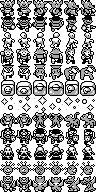
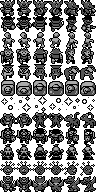
Fixed monster NPC sprites and palettes.

Changed region(s): [[0.0, 0.0, 1.0, 1.0], [0.6562, 0.0, 1.0, 0.5625], [0.5312, 0.5312, 0.5625, 0.5625]]

diff --git a/src/map.c b/src/map.c
@@ -538,8 +538,52 @@ static MonsterTiles monster_tiles_by_type(MonsterType type) {
  * @return Palette colors for the monster.
  * @param type Type of monster for which to find the palette colors.
  */
-static palette_color_t *monster_palette_by_type(MonsterType type) {
-  return kobold_palettes;
+static palette_color_t *monster_palette_by_type(
+  MonsterType type,
+  PowerTier tier
+) {
+  palette_color_t *palette;
+
+  switch (type) {
+  case MONSTER_GOBLIN:
+    palette = goblin_palettes;
+    break;
+  case MONSTER_ZOMBIE:
+    palette = zombie_palettes;
+    break;
+  case MONSTER_BUGBEAR:
+    palette = bugbear_palettes;
+    break;
+  case MONSTER_OWLBEAR:
+    palette = owlbear_palettes;
+    break;
+  case MONSTER_GELATINOUS_CUBE:
+    palette = gelatinous_cube_palettes;
+    break;
+  case MONSTER_DISPLACER_BEAST:
+    palette = displacer_beast_palettes;
+    break;
+  case MONSTER_WILL_O_WISP:
+    palette = will_o_wisp_palettes;
+    break;
+  case MONSTER_DEATHKNIGHT:
+    palette = deathknight_palettes;
+    break;
+  case MONSTER_MINDFLAYER:
+    palette = mindflayer_palettes;
+    break;
+  case MONSTER_BEHOLDER:
+    palette = beholder_palettes;
+    break;
+  case MONSTER_DRAGON:
+    palette = dragon_palettes;
+    break;
+  default:
+    palette = kobold_palettes;
+    break;
+  }
+
+  return palette + tier * 4;
 }
 
 /**
@@ -556,11 +600,12 @@ static void init_npcs(void) {
     npc++, pos++
   ) {
     MonsterTiles monster_tiles = monster_tiles_by_type(npc->monster_type);
-    palette_color_t *palette = monster_palette_by_type(npc->monster_type);
+    palette_color_t *palette = monster_palette_by_type(
+      npc->monster_type, npc->power_tier);
 
     const uint8_t palette_num = pos + 6;
     core.load_monster_tiles(monster_tiles, pos);
-    core.load_sprite_palette(kobold_palettes, palette_num, 1);
+    core.load_sprite_palette(palette, palette_num, 1);
 
     const uint8_t sprite_root = NPC_SPRITE_1 + 4 * pos;
     const uint8_t tile_root = NPC_1_TILE_ROOT + 0x20 * pos;

diff --git a/src/floor3.c b/src/floor3.c
@@ -307,11 +307,12 @@ static const NPC npcs[] = {
     MAP_A,            // Map for the npc
     0, 0              // (x, y) tile for the npc
     MONSTER_KOBOLD,   // Monster graphic to use for the NPC
+    B_TIER,           // Tier for the monster (determines palette)
     action_callback,  // Action callback to execute when the player interacts
   }
   */
-  { NPC_1, MAP_A, 15, 20, MONSTER_KOBOLD, on_npc_action },
-  { NPC_2, MAP_A, 23, 22, MONSTER_KOBOLD, on_npc_action },
+  { NPC_1, MAP_A, 15, 20, MONSTER_KOBOLD, A_TIER, on_npc_action },
+  { NPC_2, MAP_A, 23, 22, MONSTER_KOBOLD, S_TIER, on_npc_action },
 
   { END }
 };
@@ -351,7 +352,7 @@ static bool on_init(void) {
 static bool on_special(void) {
   if (player_at(20, 15) &&
       (is_lever_on(LEVER_8) ||
-       is_lever_on(LEVER_7) || 
+       is_lever_on(LEVER_7) ||
        is_lever_on(LEVER_6) ||
        !is_lever_on(LEVER_5))){
     teleport(MAP_A, 25, 15, LEFT);

diff --git a/src/floor5.c b/src/floor5.c
@@ -227,11 +227,12 @@ static const NPC npcs[] = {
     MAP_A,            // Map for the npc
     0, 0              // (x, y) tile for the npc
     MONSTER_KOBOLD,   // Monster graphic to use for the NPC
+    B_TIER,           // Tier for the monster (determines palette)
     action_callback,  // Action callback to execute when the player interacts
   }
   */
-  { NPC_1, MAP_B, 3, 5, MONSTER_KOBOLD, on_npc_action }, // Boss
-  { NPC_2, MAP_B, 12, 2, MONSTER_KOBOLD, on_npc_action }, // Elite
+  { NPC_1, MAP_B, 3, 5, MONSTER_KOBOLD, S_TIER, on_npc_action }, // Boss
+  { NPC_2, MAP_B, 12, 2, MONSTER_KOBOLD, A_TIER, on_npc_action }, // Elite
 
   { END }
 };

diff --git a/src/floor_test.c b/src/floor_test.c
@@ -251,8 +251,9 @@ static const NPC npcs[] = {
     NPC_1,            // Use NPC_* constants for ids.
     MAP_A,            // Map for the npc
     0, 0              // (x, y) tile for the npc
-    MONSTER_KOBOLD,   // Monster type
-    on_monster_action // Action callback
+    MONSTER_KOBOLD,   // Monster graphic to use for the NPC
+    B_TIER,           // Tier for the monster (determines palette)
+    action_callback,  // Action callback to execute when the player interacts
   }
   */
   { END }

diff --git a/src/floor1.c b/src/floor1.c
@@ -246,10 +246,11 @@ static const NPC npcs[] = {
     MAP_A,            // Map for the npc
     0, 0              // (x, y) tile for the npc
     MONSTER_KOBOLD,   // Monster graphic to use for the NPC
+    B_TIER,           // Tier for the monster (determines palette)
     action_callback,  // Action callback to execute when the player interacts
   }
   */
-  { NPC_1, MAP_A, 12, 5, MONSTER_GOBLIN, on_npc_action },
+  { NPC_1, MAP_A, 12, 5, MONSTER_GOBLIN, S_TIER, on_npc_action },
 
   { END }
 };

diff --git a/src/floor_test2.c b/src/floor_test2.c
@@ -163,10 +163,11 @@ static const NPC npcs[] = {
     MAP_A,            // Map for the npc
     0, 0              // (x, y) tile for the npc
     MONSTER_KOBOLD,   // Monster graphic to use for the NPC
+    B_TIER,           // Tier for the monster (determines palette)
     action_callback,  // Action callback to execute when the player interacts
   }
   */
-  { NPC_1, MAP_C, 5, 5, MONSTER_KOBOLD, on_npc_action },
+  { NPC_1, MAP_C, 5, 5, MONSTER_KOBOLD, S_TIER, on_npc_action },
   { END }
 };
 

diff --git a/src/map.h b/src/map.h
@@ -827,6 +827,10 @@ typedef struct NPC {
    */
   MonsterType monster_type;
   /**
+   * Power tier for the monster (used to select palette).
+   */
+  PowerTier power_tier;
+  /**
    * Scripting callback to execute when the player interacts with the NPC.
    * @param npc The NPC that initiated the callback.
    * @return `true` if the default action should be skipped.

diff --git a/floor_template.c b/floor_template.c
@@ -162,6 +162,7 @@ static const NPC npcs[] = {
     MAP_A,            // Map for the npc
     0, 0              // (x, y) tile for the npc
     MONSTER_KOBOLD,   // Monster graphic to use for the NPC
+    B_TIER,           // Tier for the monster (determines palette)
     action_callback,  // Action callback to execute when the player interacts
   }
   */

diff --git a/src/floor4.c b/src/floor4.c
@@ -162,6 +162,7 @@ static const NPC npcs[] = {
     MAP_A,            // Map for the npc
     0, 0              // (x, y) tile for the npc
     MONSTER_KOBOLD,   // Monster graphic to use for the NPC
+    B_TIER,           // Tier for the monster (determines palette)
     action_callback,  // Action callback to execute when the player interacts
   }
   */

diff --git a/src/floor6.c b/src/floor6.c
@@ -162,6 +162,7 @@ static const NPC npcs[] = {
     MAP_A,            // Map for the npc
     0, 0              // (x, y) tile for the npc
     MONSTER_KOBOLD,   // Monster graphic to use for the NPC
+    B_TIER,           // Tier for the monster (determines palette)
     action_callback,  // Action callback to execute when the player interacts
   }
   */

diff --git a/src/floor7.c b/src/floor7.c
@@ -162,6 +162,7 @@ static const NPC npcs[] = {
     MAP_A,            // Map for the npc
     0, 0              // (x, y) tile for the npc
     MONSTER_KOBOLD,   // Monster graphic to use for the NPC
+    B_TIER,           // Tier for the monster (determines palette)
     action_callback,  // Action callback to execute when the player interacts
   }
   */

diff --git a/src/floor8.c b/src/floor8.c
@@ -162,6 +162,7 @@ static const NPC npcs[] = {
     MAP_A,            // Map for the npc
     0, 0              // (x, y) tile for the npc
     MONSTER_KOBOLD,   // Monster graphic to use for the NPC
+    B_TIER,           // Tier for the monster (determines palette)
     action_callback,  // Action callback to execute when the player interacts
   }
   */
